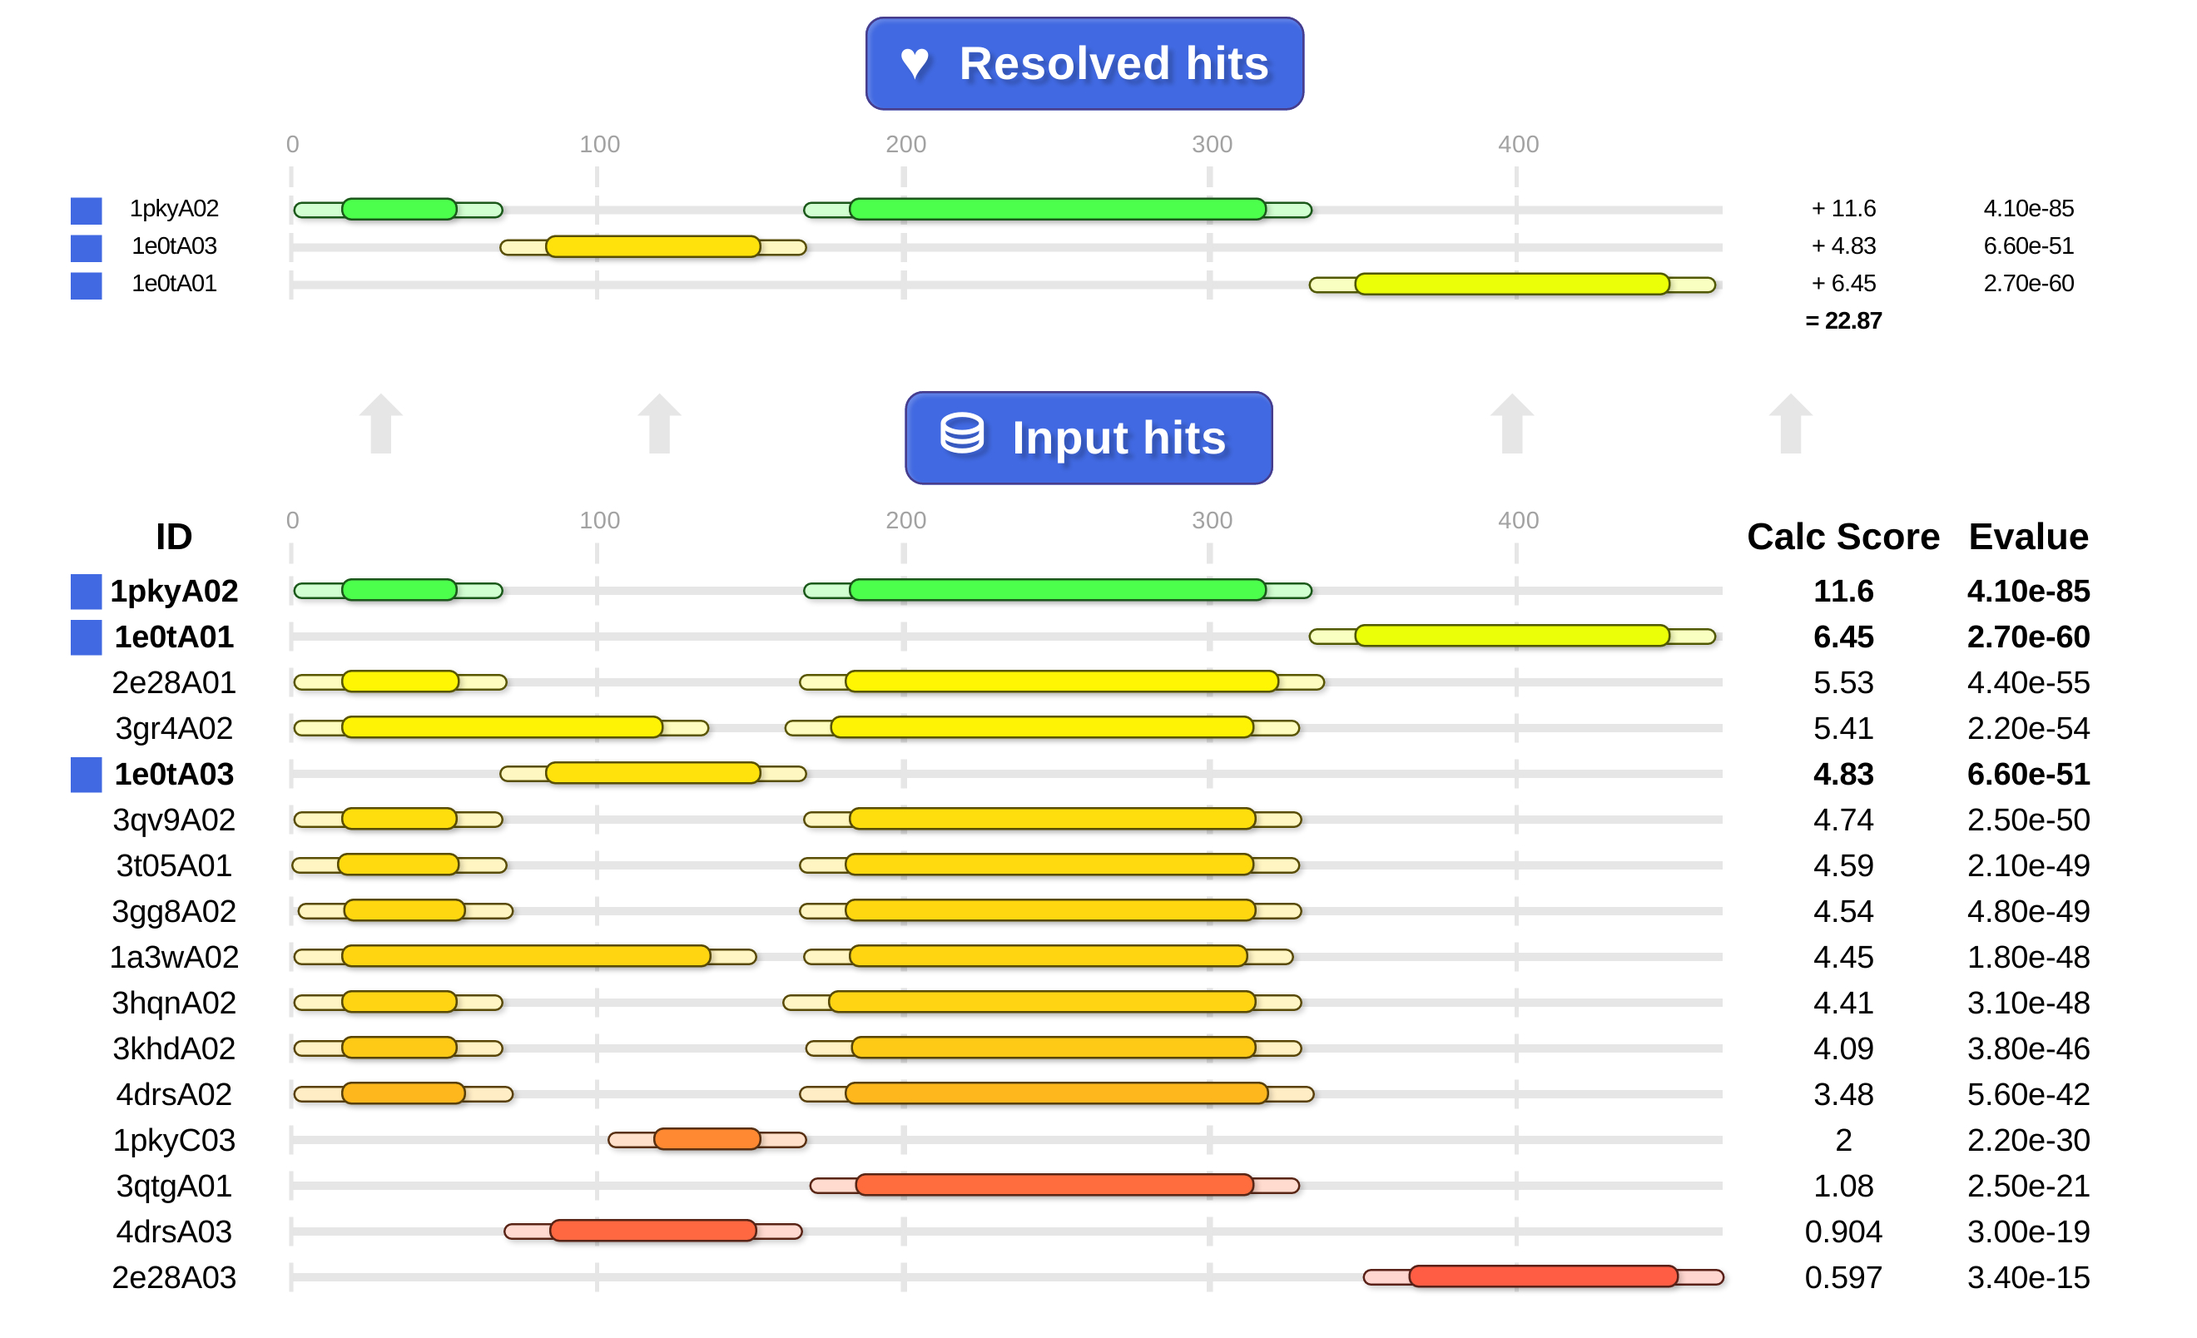
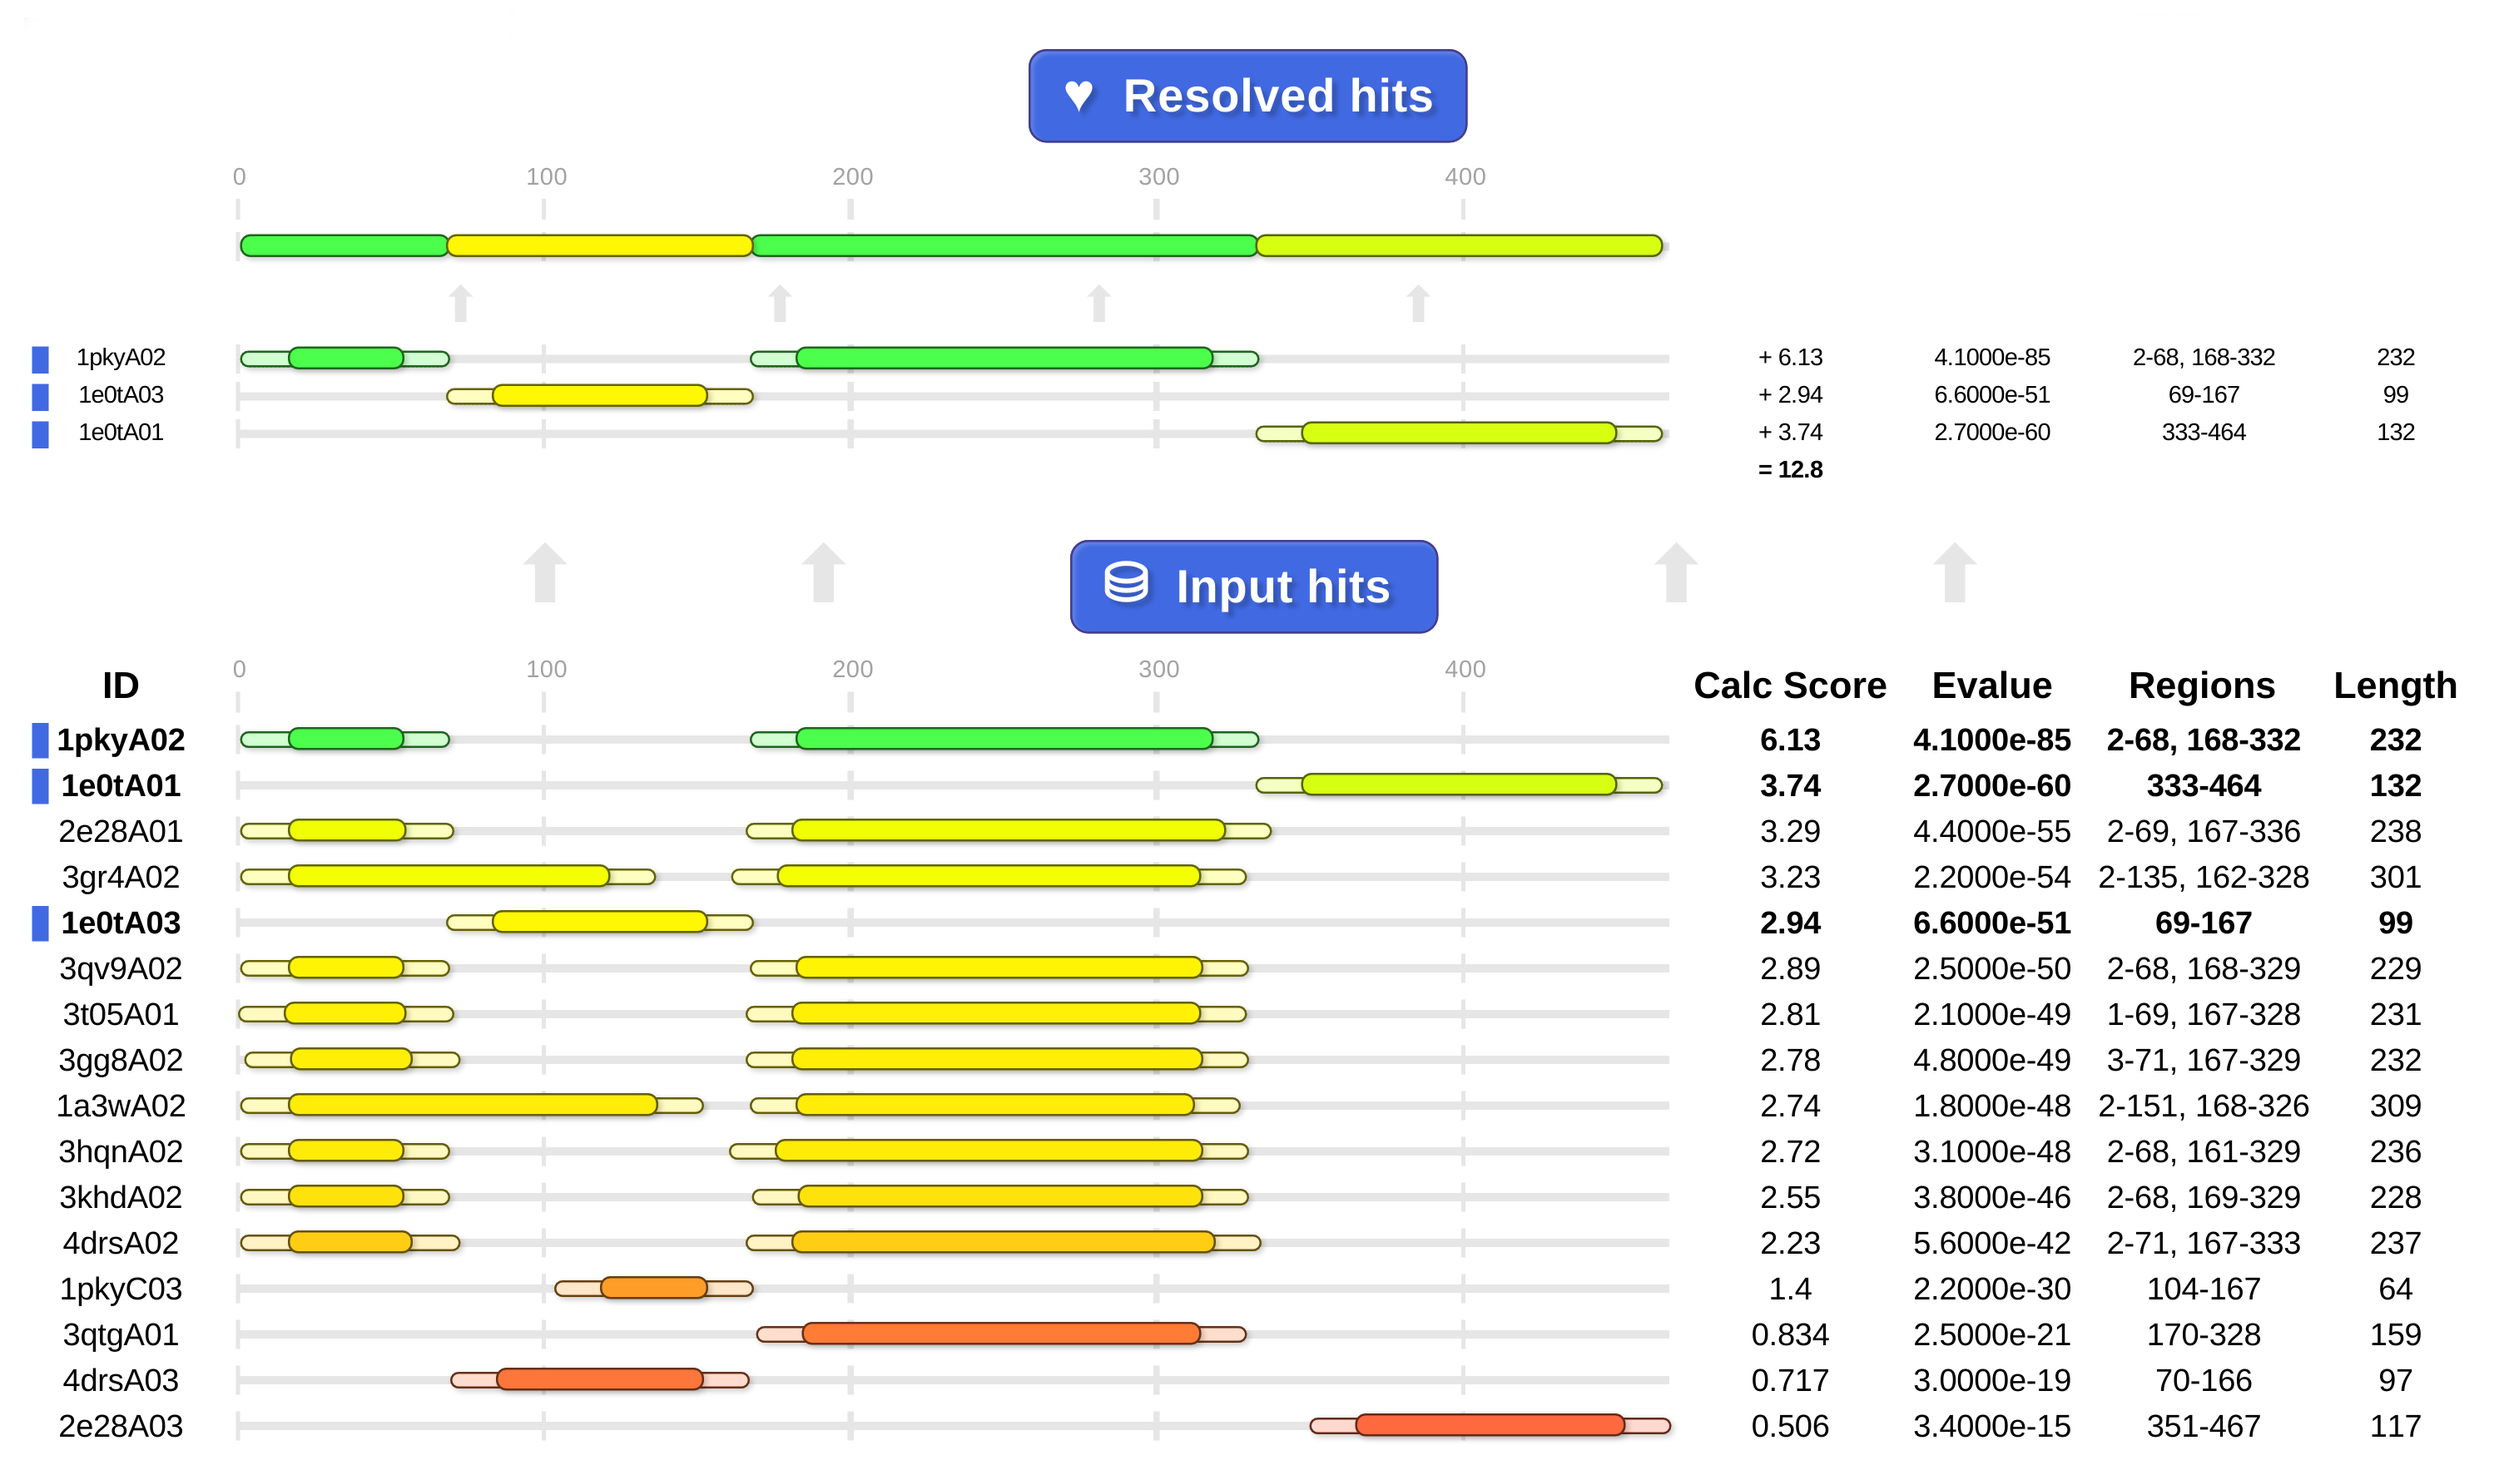
Update the cath-resolve-hits example image
Also change the code to make this a bit simpler next time.

diff --git a/source/resolve_hits/html_output/resolve_hits_html_outputter_test.cpp b/source/resolve_hits/html_output/resolve_hits_html_outputter_test.cpp
@@ -21,6 +21,7 @@
 #include <boost/algorithm/string/predicate.hpp>
 #include <boost/test/auto_unit_test.hpp>
 
+// #include "common/file/spew.hpp"
 #include "exception/invalid_argument_exception.hpp"
 #include "resolve_hits/full_hit_list.hpp"
 #include "resolve_hits/html_output/resolve_hits_html_outputter.hpp"
@@ -116,10 +117,16 @@ BOOST_AUTO_TEST_CASE(basic) {
 	const auto html_string = resolve_hits_html_outputter::output_html(
 		"my_query_sequence_id"s,
 		eg_full_hit_list,
-		crh_score_spec{},
+		crh_score_spec{
+			crh_score_spec::DEFAULT_APPLY_CATH_RULES,
+			crh_score_spec::DEFAULT_LONG_DOMAINS_PREFERENCE,
+			1.0
+		},
 		crh_segment_spec{}
 	);
 	BOOST_CHECK( boost::algorithm::contains( html_string, R"(<html)" ) );
+
+	// spew( "example.cath-resolve-hits.output.html", html_string );
 }
 
 BOOST_AUTO_TEST_SUITE_END()
